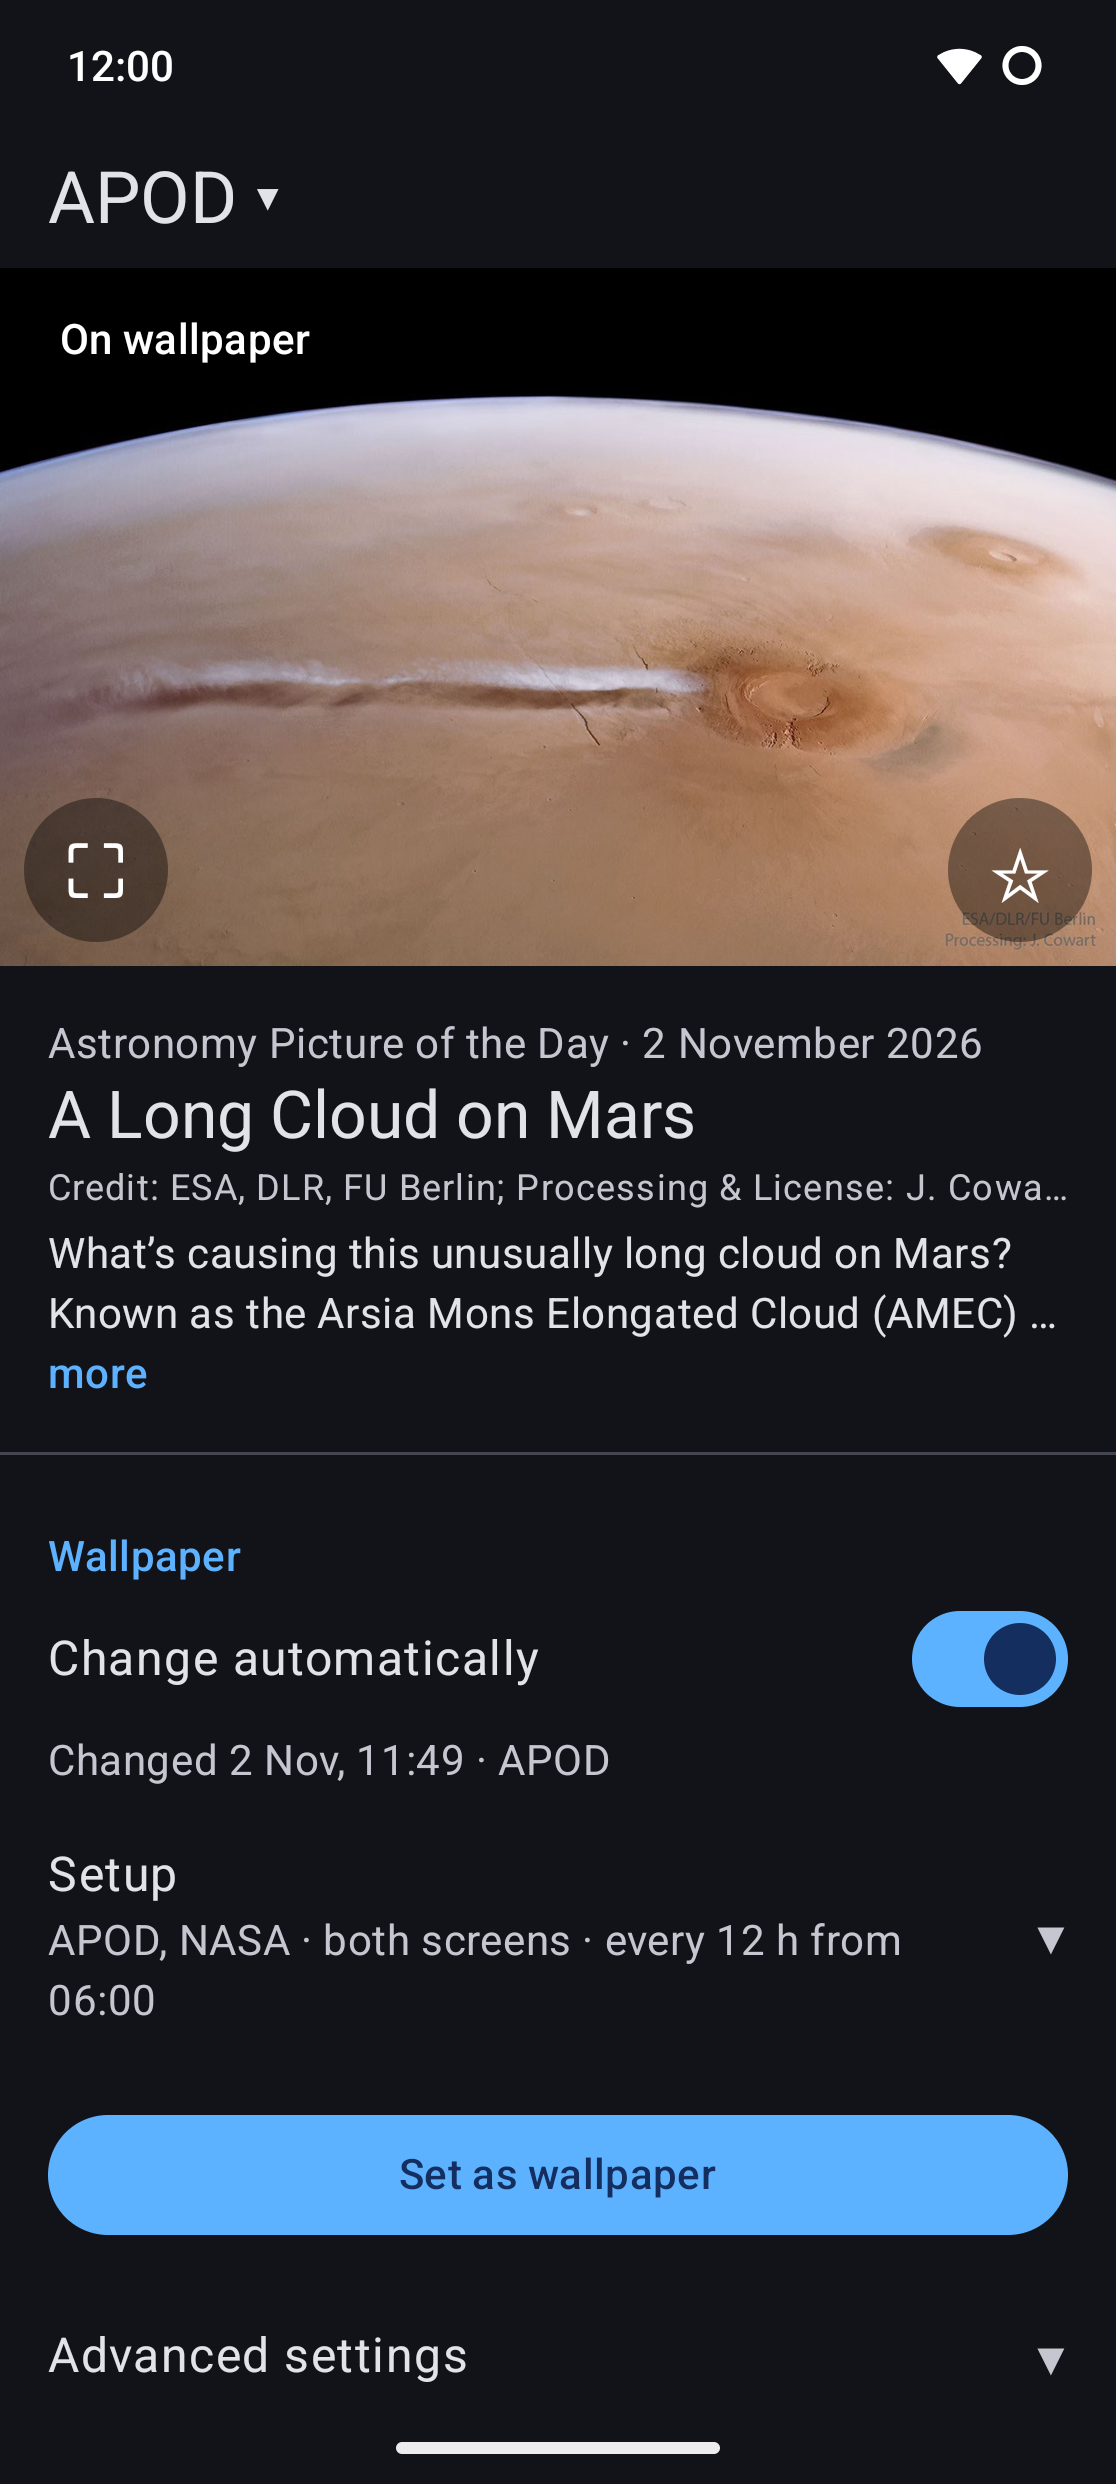
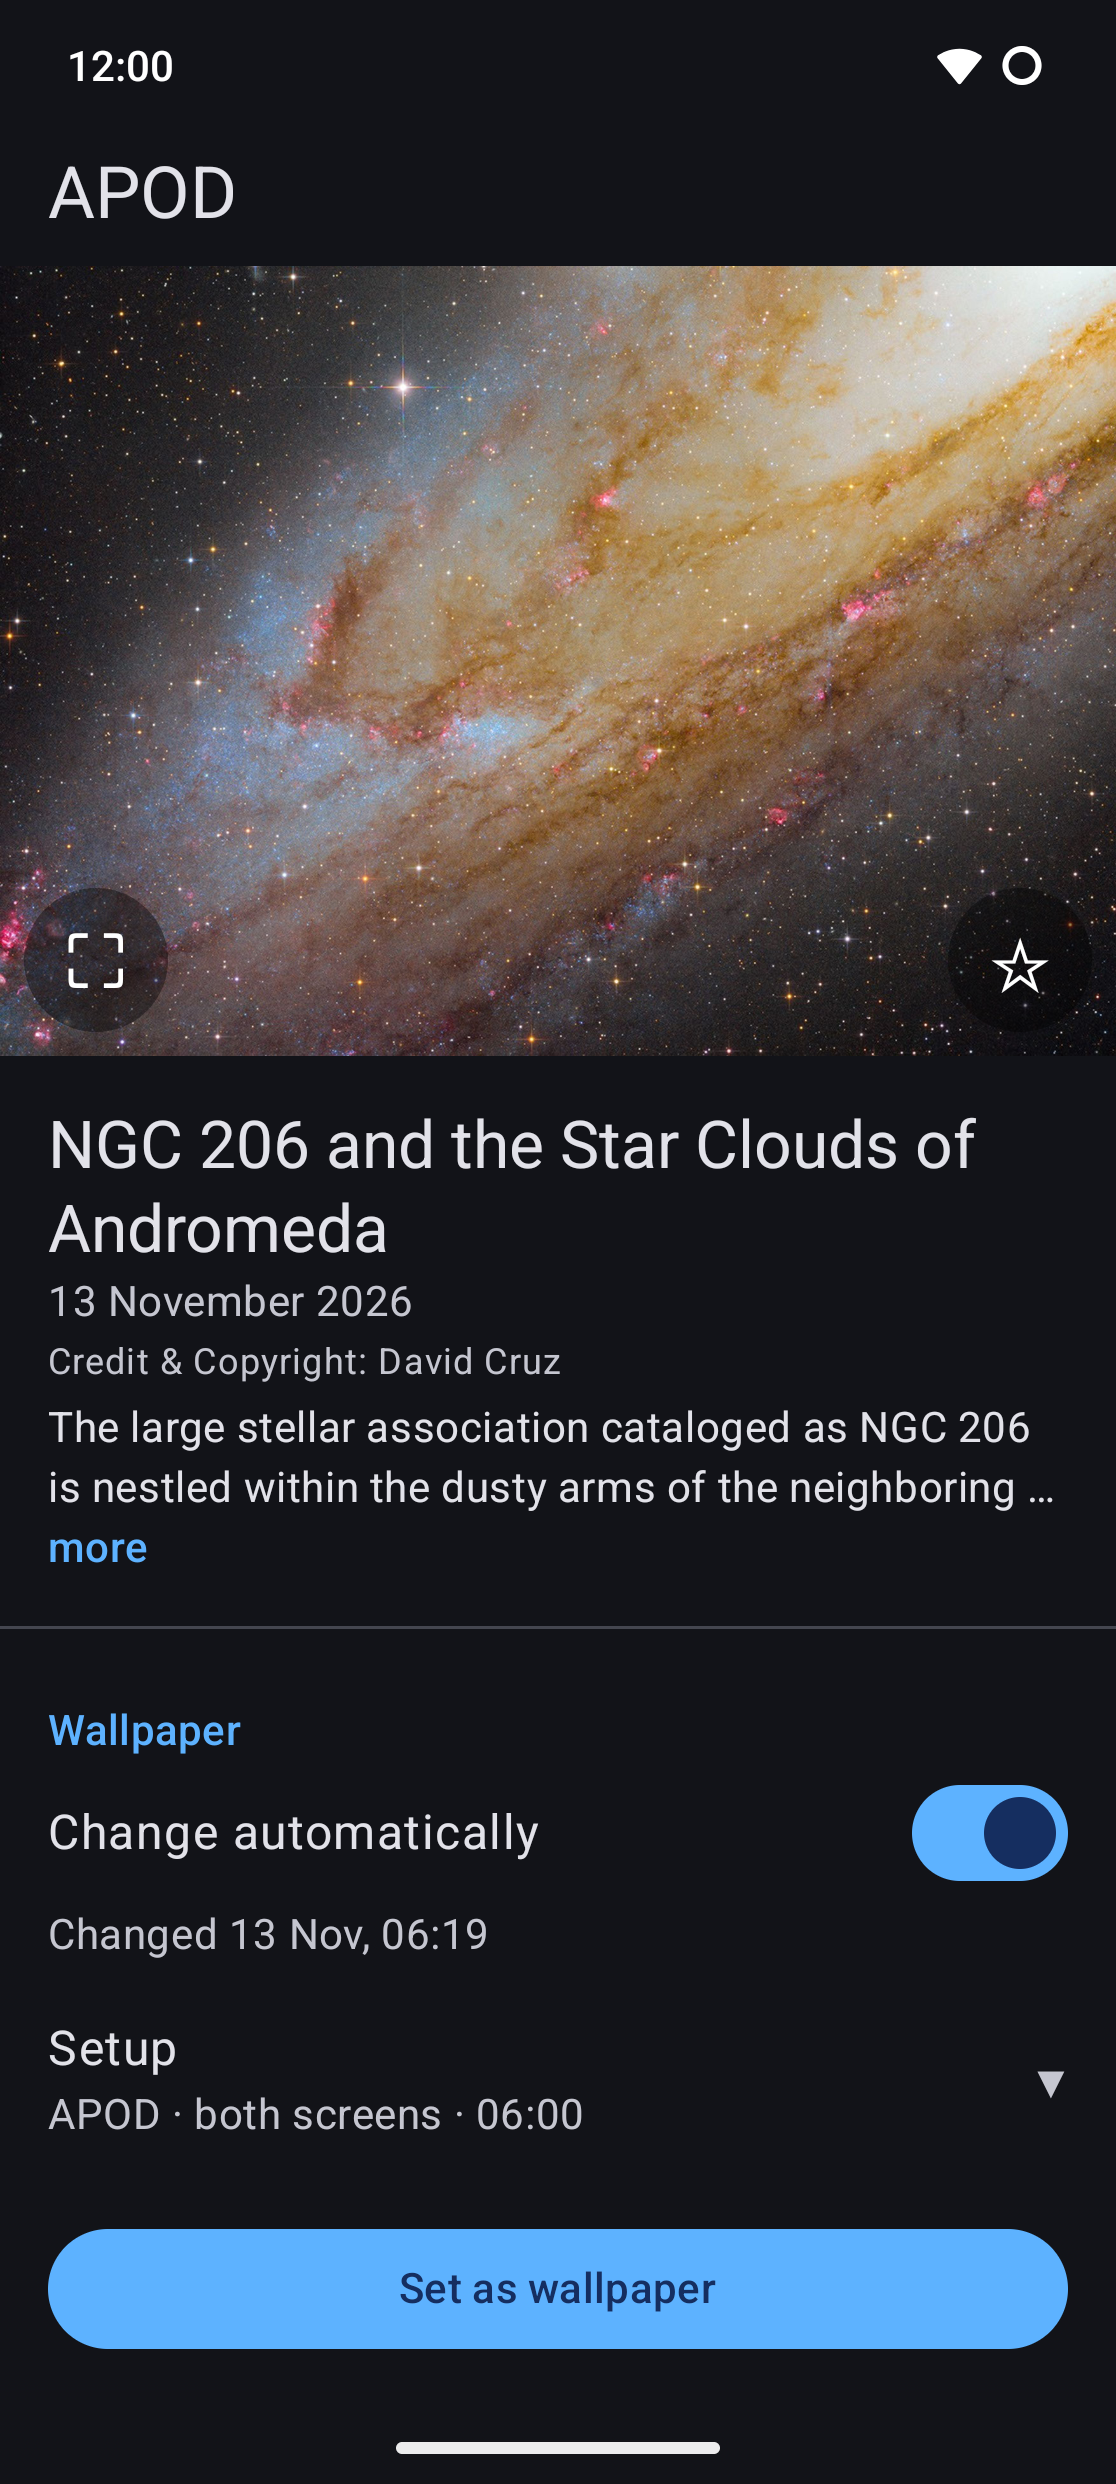
README and screenshot for 1.0.0
The README's feature list from the store description (Size, As soon as
it's out, the order, Darken, Keep sharp, Keep running, the permissions);
the screenshot NGC 206 on the FP6, how it was made in the skill; the
posting places and a line break in release-0.10.0.md.

diff --git a/README.md b/README.md
@@ -10,28 +10,36 @@ Observatory's Image of the Day can be added ("More NASA pictures").
 
 One page: today's picture with its title and date, and the settings below it (beside it on
 tablets and in landscape). With "More NASA pictures" on, swipe or use the name above the picture
-to see each source; "On wallpaper" marks the picture that's on your wallpaper.
+to see each source; a chip on the picture marks the one that's on your wallpaper.
 
-- **Change automatically:** alarms check for the new picture at the change times,
-  only with a network, and set it once it's out (APOD at about 00:05 US Eastern time). On or off
-  at once.
+- **Change automatically:** alarms check for the new picture at the change times and set it once
+  it's out (APOD at about 00:05 US Eastern time). On or off at once.
 - **Setup**, a draft until you tap **Set as wallpaper**:
   - **Where:** home screen, lock screen, or both. With **More NASA pictures** on, **Pictures
     from** instead: APOD, NASA (Image of the Day), Earth (Observatory), each on the home screen,
-    the lock screen or both. A screen with two or more takes turns, every 24, 12, 6 or 3 hours,
-    and shows only pictures it hasn't shown yet. NASA and Earth Observatory post on weekdays only.
+    the lock screen or both. Drag the sources into order. A screen with two or more takes turns in
+    that order, every 24, 12, 6 or 3 hours. NASA and Earth Observatory post on weekdays only.
+  - **Size:** Centre, Auto (the frame on the picture's subject; a wide APOD goes on sideways
+    unless NASA's text says it has an up) or Live: a wide picture moves across the home screen
+    over the day (a live wallpaper, picked once in Android's picker).
   - **New picture at:** the hour the wallpaper changes (06:00 by default). A picture that comes
-    out in the 3 hours after it still goes on.
+    out in the 3 hours after it still goes on; turn on **As soon as it's out** to get each new
+    picture within the hour.
   - **If APOD is a video:** skip it, use NASA's or Earth Observatory's picture, or a picture of
-    your own. The page shows a ▶ tile that opens the video on NASA's website.
-- **Advanced settings:** save every new picture to your gallery, up to a size you choose.
-- Pull down to refresh. Notes below the picture say when the check fails.
-- If Android would pause the app because you don't open it, a note below the picture names the
-  settings in App info that prevent it.
+    your own. The page shows a ▶ tile (with a still from NASA's own videos) that opens the video
+    on NASA's website.
+  - **Darken bright pictures** (on by default), so the clock and widgets stay readable.
+  - **Keep pictures sharp:** enlarges a small picture at most 2×; the rest of the screen shows it
+    blurred.
+- **Advanced settings:** save every new picture to your gallery, up to a size you choose;
+  **Keep running**, so the phone can't stop the app between changes.
+- Pull down to refresh. Notes below the picture say when the check fails, which settings keep
+  Android from pausing the app (for your phone's maker), and when the phone stopped the app and a
+  change came late.
 - Tap the picture to open it on NASA's website; tap the star to save the original to your
   gallery (`Pictures/APODroid/`).
-- Tap ⛶ to choose which part of the picture becomes the wallpaper, or the whole picture on a
-  blurred or black background; ✓ sets it.
+- Tap ⛶ to choose which part of the picture becomes the wallpaper, turn it sideways, or show the
+  whole picture on a blurred or black background; ✓ sets it.
 - The explanation's first two lines show under the title; tap them to read it all.
   Long-press the title or the explanation to copy the link or the text.
 
@@ -57,8 +65,9 @@ alone.
 ## Privacy
 
 No account, no ads, no tracking. The app talks only to NASA's websites (nasa.gov). Permissions:
-`INTERNET`, `SET_WALLPAPER`, and `ACCESS_NETWORK_STATE` and `RECEIVE_BOOT_COMPLETED` for the
-daily job.
+`INTERNET`, `SET_WALLPAPER`, `ACCESS_NETWORK_STATE` and `RECEIVE_BOOT_COMPLETED` for the daily
+update, and `FOREGROUND_SERVICE` and `FOREGROUND_SERVICE_SPECIAL_USE` for Keep running (off by
+default). Saving to the gallery needs no permission.
 
 ## Build
 

diff --git a/.claude/skills/build-apodroid-android/release-0.10.0.md b/.claude/skills/build-apodroid-android/release-0.10.0.md
@@ -1680,11 +1680,12 @@ or `W` line, one process since the reboot of 23 Nov (Keep running on), bucket EX
 6. **The real week** (2026-11-22, user): the setup per device is WK's table (one Auto, one Live, one Centre;
    "looks good"). CR2, the second code review, runs during the week; bugs are fixed and the week goes on; 1.0.0
    after at least 7 days with the last 2 on the current build bug-free. E14 is split six ways (a–f: the live map
-   in two halves); E10 the same when its night comes.7. **Posts about 1.0.0** (user, 2026-11-28): Reddit's **r/androidapps**, **r/apod** and **r/space** only (not
-   r/fdroid, Lemmy, Mastodon, HN and the like). After F-Droid has built 1.0.0, so the link works. Before each post,
-   read the subreddit's rules: r/androidapps reportedly sends developers' own apps to r/droidappshowcase, r/space
-   allows self-promotion only in its own threads, and r/apod's activity wasn't checked (2026-11-28). Say plainly
-   that it's an unofficial app, not NASA's.
+   in two halves); E10 the same when its night comes.
+7. **Posts about 1.0.0** (user, 2026-11-28, the list changed the same day): Reddit's **r/Astronomy**, **r/space**,
+   **r/nasa** and **r/droidappshowcase** (where r/androidapps sends developers' own apps). After F-Droid shows 1.0.0,
+   one sub a day. r/space reportedly allows no self-promotion and r/Astronomy's and r/nasa's rules weren't found
+   (2026-11-28): ask their moderators first. r/droidappshowcase: the Promo flair, an app store link (F-Droid), one
+   app post a week. Say plainly that it's an unofficial app, not NASA's.
 
 **1.0.0 (R6) released 2026-11-28** (user: "just release 1.0.0 now"): after five days of WK on three devices with no
 `BUG:` (the Saturday readings above), before the planned 7; 0.10.0's code unchanged (versionCode 17); CR2 skipped;

diff --git a/.claude/skills/build-apodroid-android/SKILL.md b/.claude/skills/build-apodroid-android/SKILL.md
@@ -585,6 +585,17 @@ it).
 - 0.6.0's `1.png` (R, 2026-11-02): the user's own setup as it was (APOD + NASA, APOD's page,
   Setup closed) on the FP6 with the tag's release build, nothing set, SystemUI demo mode only (a
   release build has no `run-as`, so no faked page). Only `1.png` (user); `README.md` embeds it.
+- 1.0.0's `1.png` (2026-11-28, the user's pick: 13 Nov's "NGC 206 and the Star Clouds of
+  Andromeda"): on the FP6 without losing its setup. A debug build signed by the user with the
+  release key (`apksigner sign --ks ~/KEY99/keys/apps/apodroid-release.jks --ks-key-alias apodroid
+  --out …-releasekey.apk …-debugkey.apk`, their terminal) installs over the release with `-r`, so
+  `run-as` works; force-stop, back up `shared_prefs/apodroid.xml` and `files/apod.jpg` to
+  `private/screenshot/backup/`, write the post's keys, the records, `wallpaperSetAt`, `checkedAt`
+  now (the page skips the fetch) and `problemNoticeKey` `network:<today>`, the `?h=2484` rendition
+  as `apod.jpg`, block the app's network (the reopened page schedules the fallback job, which runs
+  at once), demo mode, the shot; then restore byte for byte (`cmp`), unblock, and install the
+  release APK over it again. A force stop drops the alarms; the reinstall's update explains it to
+  the detector, and the next page open arms them again.
 - Screenshot with SystemUI demo mode, as in gridload: `settings put global sysui_demo_allowed 1`,
   broadcasts `enter`, `clock -e hhmm 1200`, `notifications -e visible false`,
   `network -e wifi show -e level 4 -e fully true` (without `fully` the Wi-Fi icon shows "!"),
